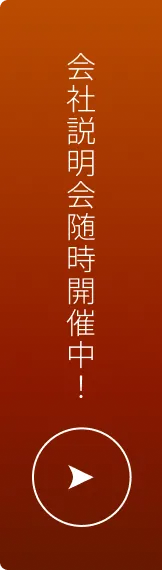
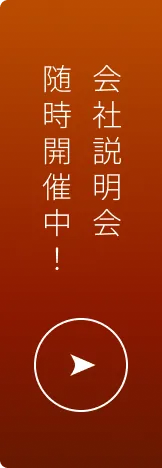
1223修正

diff --git a/shinsotsu/internship-workshop/index.html b/shinsotsu/internship-workshop/index.html
@@ -452,7 +452,7 @@
 						</div>
 					</div>
 					<div class="zf-tempFrmWrapper zf-large ">
-						<label class="zf-labelName">ご自宅からの最寄駅名
+						<label class="zf-labelName">ご自宅の最寄駅名
 							<em class="zf-important">*</em>
               <div class="zf-instruction-02">（※交通費計算のため）</div>
 						</label>

diff --git a/shinsotsu/src/scss/pages/_page-new-graduate-recruitment-information.scss b/shinsotsu/src/scss/pages/_page-new-graduate-recruitment-information.scss
@@ -625,7 +625,7 @@
             align-items: center;
             justify-content: center;
             width: 100%;
-            min-height: 160px;
+            //min-height: 160px;
             //padding: 30px 0;
             padding: 0 0;
             border-radius: 4px 0 0 4px;

diff --git a/shinsotsu/src/scss/layouts/_layout.scss b/shinsotsu/src/scss/layouts/_layout.scss
@@ -134,7 +134,7 @@
     align-items: center;
     justify-content: center;
     width: 100%;
-    min-height: 160px;
+    //min-height: 160px;
     //padding: 30px 0;
     padding: 0;
     border-radius: 4px 0 0 4px;
